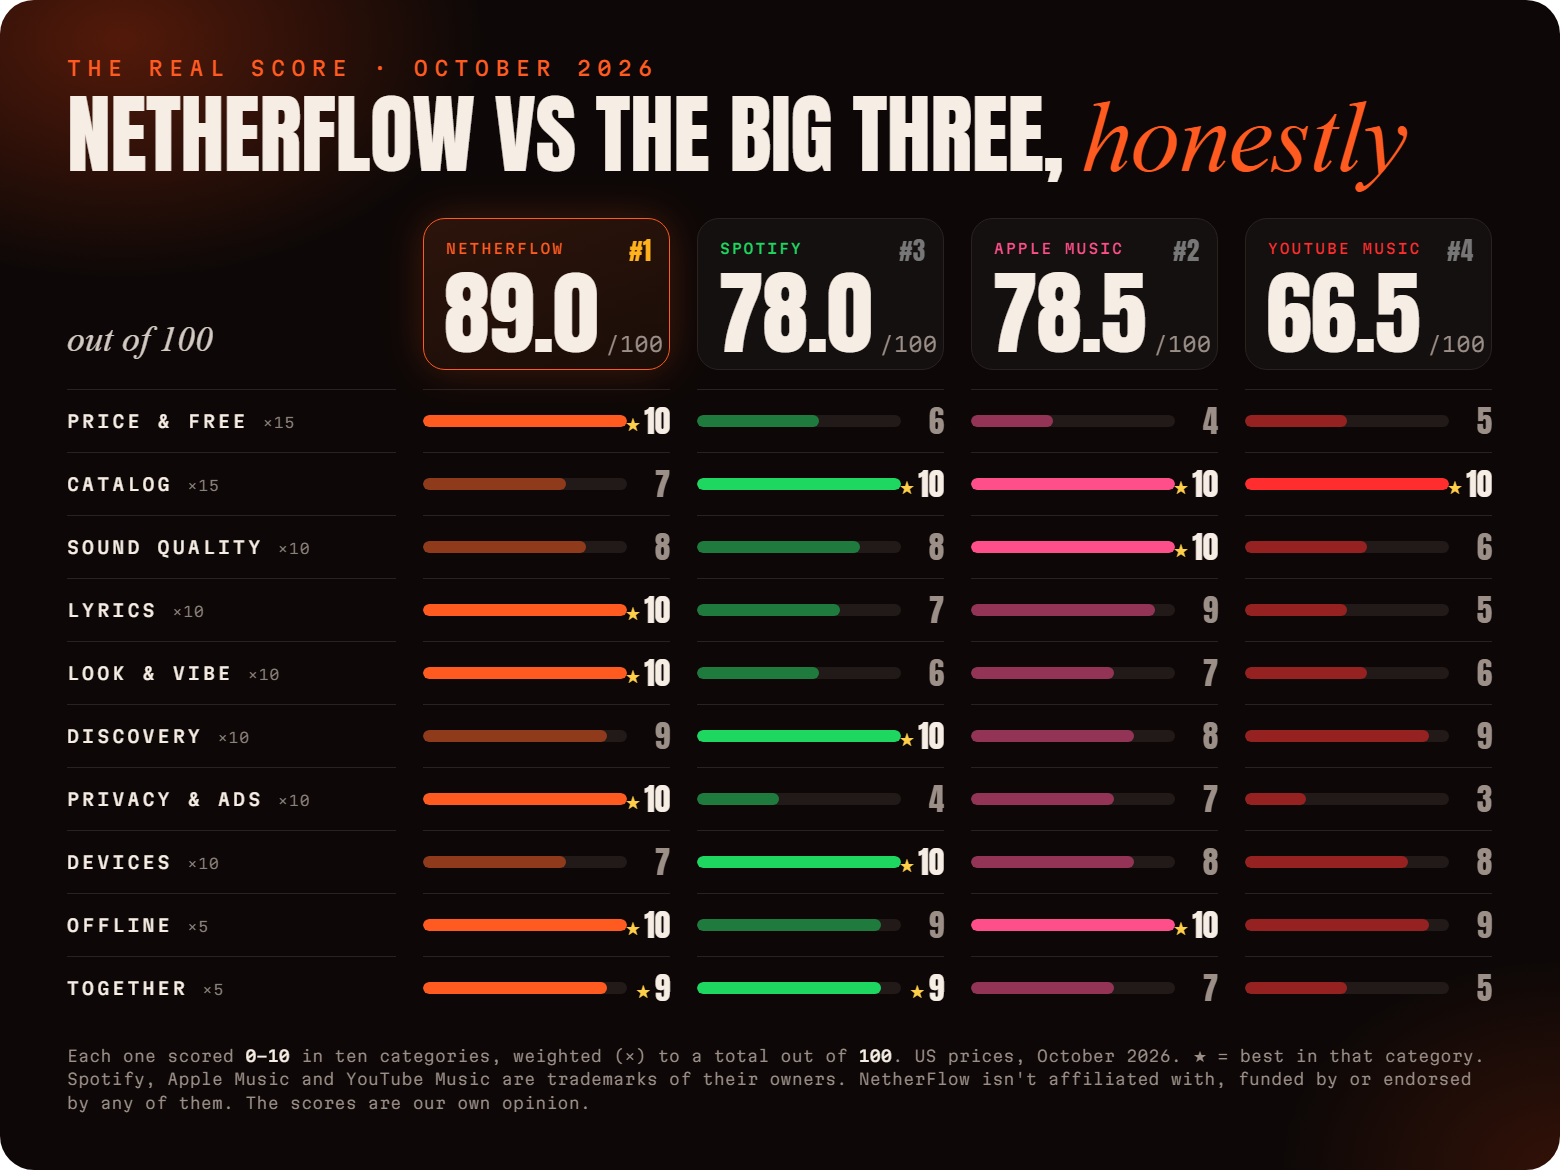
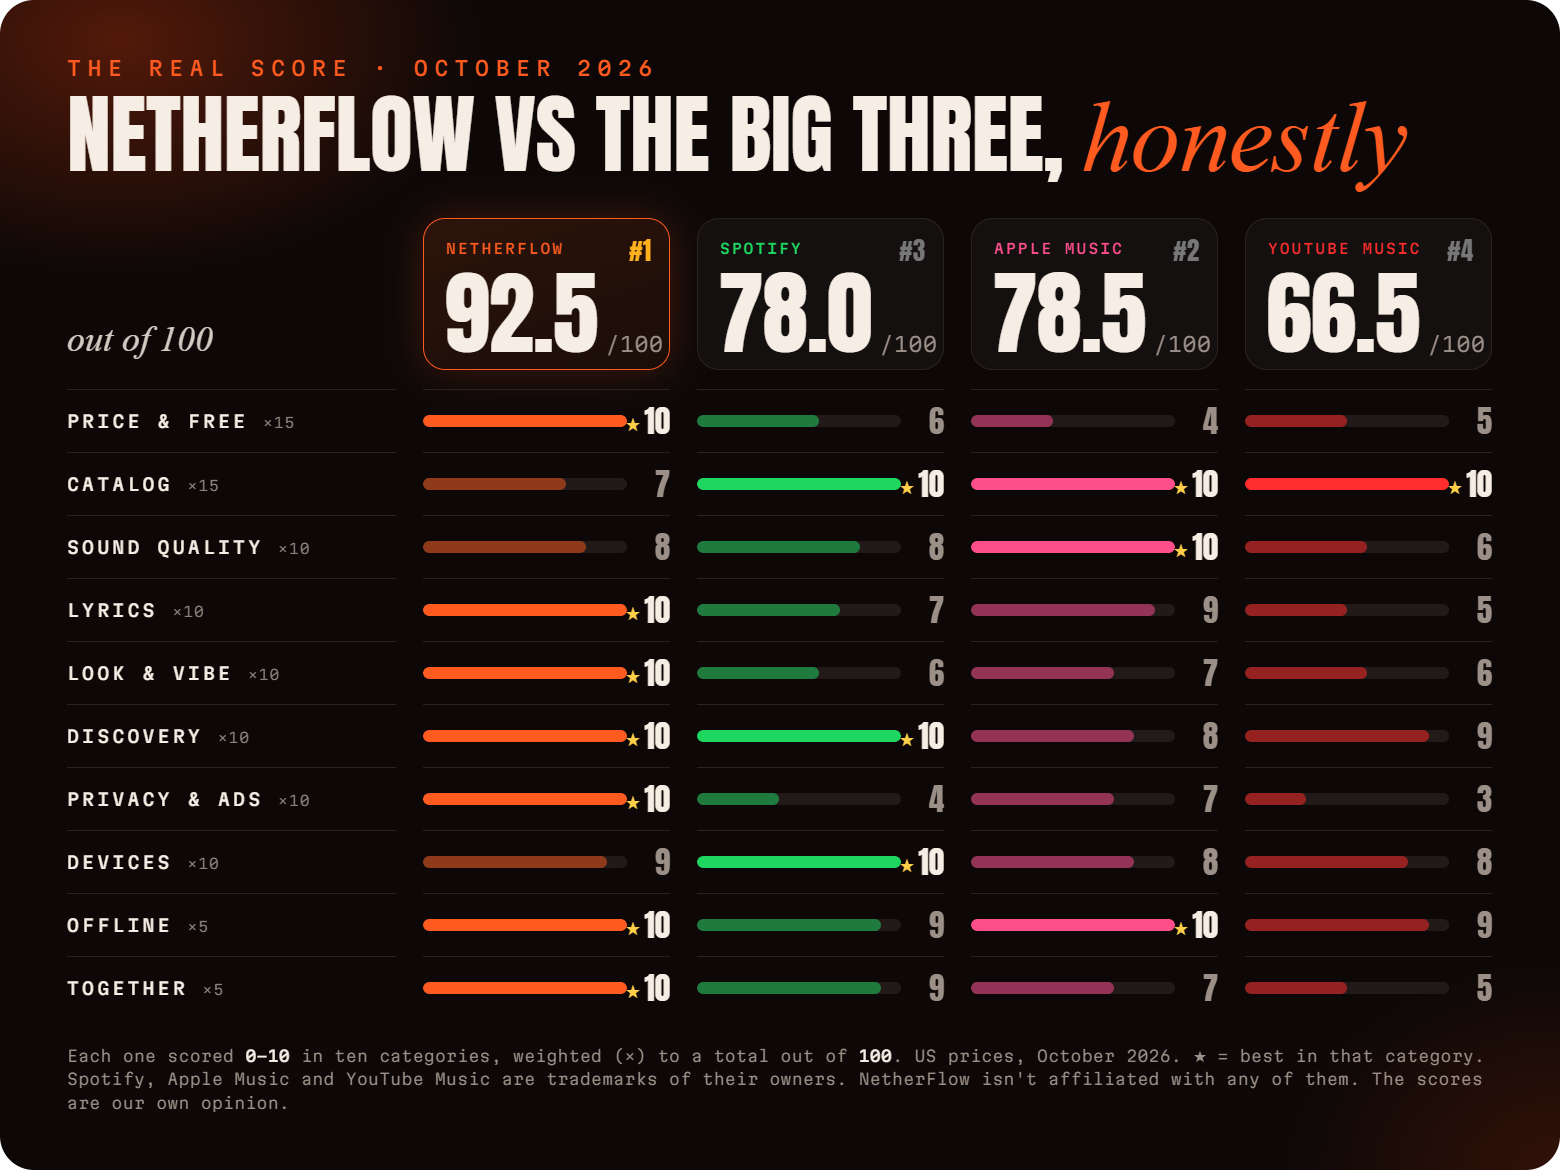
NetherFlow 1.6.0: Play on a TV or speaker, live concerts, Weekly picks and Today's mix, and Listen together for 30
Version 1.6.0 (versionCode 14); TERMS_VERSION 2026-10-19.1 for Legal's 1.6.0 text (f2e2b35); README's What's new,
features and comparison in Legal's wording (the score 92.5: devices 9, discovery 10, together 10); the changelog and
the store's notes.

diff --git a/index.html b/index.html
@@ -8898,7 +8898,7 @@ $('closeAbout').onclick = () => $('about').close();
 // Links inside legal.html open in the real browser (legal.html calls this through window.parent).
 window.openExternal = url => native ? (location.href = url) : window.open(url, '_blank', 'noopener');
 
-const TERMS = 'netherflow.terms', TERMS_VERSION = '2026-10-17.1'; // bump when the terms change: everyone is asked again (and run npm run site:legal for the website's copy)
+const TERMS = 'netherflow.terms', TERMS_VERSION = '2026-10-19.1'; // bump when the terms change: everyone is asked again (and run npm run site:legal for the website's copy)
 if (store.get(TERMS) !== TERMS_VERSION) { $('consent').showModal(); placeWinctl(); }
 // its usual port taken (see main.js): the library and settings are kept under that one, so here all looks new; said so
 if (window.netherflowApp?.portMoved) setTimeout(() => { toast('Something else is using NetherFlow\'s port, so your library and settings aren\'t shown. Close it (or another NetherFlow) and open NetherFlow again.'); clearTimeout(toastTimer); toastTimer = setTimeout(() => $('toast').hidePopover(), 15000); }, 1500);

diff --git a/README.md b/README.md
@@ -44,26 +44,29 @@ need a powerful graphics card anyway), about 18 MB smaller, and it updates to Li
 
 <a id="whats-new"></a>
 
-## What's new in 1.5.1
+## What's new in 1.6.0
 
-- **A new search**, laid out like the big music apps: the top result beside the first four songs, artists and albums in
-  rows, and All, Songs, Artists and Albums at the top. The page is there in under a second
-- **Playlists you can arrange:** find a song as you type, sort by title, artist, newest added or length, drag songs into
-  your own order, and Add songs from the playlist itself
-- **Songs start sooner,** and the artist's own upload is preferred
-- **Rap lyrics in sync:** word-by-word timing that's out of line with the song is lined up again
-- **A volume booster up to 300%** that stays loud without clipping, and **360 sound** that keeps the bass
-- **Play on** (pick the speakers or headphones), **Interface size**, four looks for the **beat on the screen edges**, and
-  **Esc twice** for the home screen
-- **No freeze when picking Redline:** the 3D race runs on its own
+- **Play on a TV or speaker.** It works with Chromecast and other Google Cast devices, and with DLNA TVs and speakers.
+  NetherFlow isn't made, certified or endorsed by Google
+- **NetherFlow also runs on Fire TV: install the APK.** Phones and computers on your Wi-Fi can then play on it
+- **Live concerts from the Internet Archive's Live Music Archive:** free shows taped by fans, in Library ›
+  Live concerts and with the artists you search for
+- **Weekly picks** (new every Monday) and **Today's mix**, made from what you play and like
+- **Listen together with up to 30 people**
+- **Lyrics romanized** in Hindi, Punjabi and India's other scripts, and word by word in them where the song has it
+- **Share to NetherFlow** (Android): a song shared from YouTube or YouTube Music plays that very song
+- **Move the island** (Windows) anywhere on the screen: Settings › Island position, or Ctrl+Alt+I from any app
+- **A notice when an update is out,** and on phones the music keeps playing when Android takes the app's page away
+- **Faster and steadier everywhere:** long lists quicker to draw and steady while songs download, and on phones,
+  jumping ahead past what's loaded just works
 
-1.5.0 brought NetherFlow's own player, FlowStream, the sound tools, Radio, Shuffle, gapless albums, Android Auto and a
-much smaller app: see the [changelog](CHANGELOG.md#150-netherflows-own-player-and-a-much-smaller-app).
+1.5.1 brought the new search, playlists you can arrange and the 300% booster: see the
+[changelog](CHANGELOG.md#151-better-search-playlists-you-can-arrange-and-a-booster-up-to-300).
 
 > [!NOTE]
 > Someone on 1.4.2 or older can't join a Listen together session started on 1.5 or newer, so update both sides. Shared
-> playlists keep working with older versions. Coming from 1.4 or older: the terms and privacy policy changed a little (which country's law
-> applies, a note on flashing light, and the new relay), so you're asked to accept them again.
+> playlists keep working with older versions. The terms and privacy policy changed a little (TVs and speakers, NetherFlow
+> on a TV, live concerts and update notices), so you're asked to accept them again.
 
 The full notes for this release and every earlier one are in the [changelog](CHANGELOG.md).
 
@@ -79,9 +82,11 @@ The full notes for this release and every earlier one are in the [changelog](CHA
 - **Smooth mix**: songs blend into each other like a DJ set, on the beat. Albums play **gapless**, straight from one song
   into the next
 - **Explore**: charts, new releases, trending, moods and genres with their playlists, and **Your mix**, **Discover** and a
-  mix for **the time of day** (morning, afternoon, evening, late night), made from what you play
+  mix for **the time of day** (morning, afternoon, evening, late night), **Weekly picks** (new every Monday) and
+  **Today's mix**, made from what you play
 - **Follow artists**: their new albums and singles show up first in Explore, and you hear when they're out
 - **Podcasts and audiobooks**: follow shows, pick up where you left off, any speed from 0.8× to 2×
+- **Live concerts from the Internet Archive's Live Music Archive**: free shows taped by fans
 - **Equalizer** with presets, a volume booster, **headphone correction** for 6,000+ headphones (AutoEQ), and every song
   at its **original loudness**
 - **Sound tools**: 360 sound, crossfeed for headphones, clarity, loudness at low volume and a night mode, and a line
@@ -114,7 +119,7 @@ The full notes for this release and every earlier one are in the [changelog](CHA
 
 ### With your people
 
-- **Listen together**: up to 10 people hear the same song at the same moment, each on their own phone or PC. Anyone can
+- **Listen together**: up to 30 people hear the same song at the same moment, each on their own phone or PC. Anyone can
   add songs, skip and react. End-to-end encrypted, no account
 - **Share playlists with a QR code**: tap Share on any playlist and a friend points their phone camera at it, or send
   the link and they paste it in NetherFlow's search. The songs ride inside the link itself; nothing is uploaded
@@ -126,15 +131,18 @@ The full notes for this release and every earlier one are in the [changelog](CHA
 
 ### On every screen
 
+- **Play on a TV or speaker.** It works with Chromecast and other Google Cast devices, and with DLNA TVs and speakers.
+  NetherFlow isn't made, certified or endorsed by Google
 - **Windows**: a **now-playing island** at the top of the screen, over every app. Click it for the cover, timeline,
-  volume and controls
+  volume and controls, and move it anywhere (Settings › Island position, or Ctrl+Alt+I)
 - **Linux**: the same app as a .deb or an AppImage, with your song in your desktop's media controls
 - **Android**: a home-screen widget, lyrics on the lock screen (and in the notification and on your car's display), and
   liked songs saving themselves for offline on Wi-Fi
 - **Android Auto**: your liked songs, recently played and playlists on the car's screen, and voice search. NetherFlow
   plays from your phone, so open it there first. Android Auto shows apps from outside Google Play once its *Unknown
   sources* developer setting is on
-- **Android TV and Google TV**: on the TV's home screen, and everything works with the remote
+- **Android TV and Google TV**: on the TV's home screen, and everything works with the remote. NetherFlow also runs on
+  Fire TV: install the APK. Phones and computers on your Wi-Fi can then play on it
 - **Updates inside the app**: the Windows installer downloads only what changed, and so does the Linux AppImage.
   NetherFlow's own Android app does the same, signed and checked first (a store's build is updated by the store). The
   portable app and the .deb don't update themselves
@@ -192,18 +200,17 @@ All four apps scored on the ten things that matter most to listeners. NetherFlow
 every category.
 
 <p align="center">
-  <img src="docs/media/score.png" width="100%" alt="The score, out of 100: NetherFlow 89.0, Apple Music 78.5, Spotify 78.0, YouTube Music 66.5">
+  <img src="docs/media/score.png" width="100%" alt="The score, out of 100: NetherFlow 92.5, Apple Music 78.5, Spotify 78.0, YouTube Music 66.5">
 </p>
 
 | Rank | App | Score | Best at |
 |:-:|:--|:-:|:--|
-| 1 | **NetherFlow** | **89.0** | price, lyrics, the look, privacy, offline, together |
+| 1 | **NetherFlow** | **92.5** | price, lyrics, the look, privacy, offline, together, discovery |
 | 2 | **Apple Music** | **78.5** | sound quality, offline, catalog |
-| 3 | **Spotify** | **78.0** | discovery, devices, together, catalog |
+| 3 | **Spotify** | **78.0** | discovery, devices, catalog |
 | 4 | **YouTube Music** | **66.5** | catalog (covers, live versions, remixes) |
 
-NetherFlow is **first, or tied for first, in six categories**. The others beat it on catalog, sound, discovery and
-devices.
+NetherFlow is **first, or tied for first, in seven categories**. The others beat it on catalog, sound and devices.
 
 <details>
 <summary><b>The full breakdown, category by category</b></summary>
@@ -227,6 +234,7 @@ devices.
 | Songs | everything on YouTube, found through Apple's catalog | 100M+ | 100M+ | 100M+, plus YouTube's covers, live versions and remixes |
 | Officially licensed | ✗ it plays the songs from YouTube | ✓ | ✓ | ✓ |
 | Podcasts | ✓ podcasts from Apple's directory, saved for offline too | ✓ | ~ in a separate app | ✓ |
+| Live concerts | ✓ live concerts from the Internet Archive's Live Music Archive, taped by fans | ✓ official live albums | ✓ official live albums | ✓ official live albums, and YouTube's live versions |
 | Audiobooks | ~ free classics only (LibriVox, public domain in the US) | ✓ the bestsellers | ~ in Apple Books | ✗ |
 | Can break when YouTube changes something | ~ yes, until an update fixes it | ✓ no | ✓ no | ✓ no |
 | **Score** | 7 | **10** | **10** | **10** |
@@ -263,10 +271,10 @@ devices.
 
 | | NetherFlow | Spotify | Apple Music | YouTube Music |
 |:--|:--|:--|:--|:--|
-| Recommendations | ✓ Your mix, Discover, Radio from any song or artist, a mix for the time of day, Mix with a friend, and Autoplay that learns from what you skip and like | ✓ Discover Weekly, AI DJ, daylist | ✓ stations, personal mixes | ✓ Supermix, strong recommendations |
+| Recommendations | ✓ Your mix, Discover, Weekly picks, Today's mix, Radio from any song or artist, a mix for the time of day, Mix with a friend, and Autoplay that learns from what you skip and like | ✓ Discover Weekly, AI DJ, daylist | ✓ stations, personal mixes | ✓ Supermix, strong recommendations |
 | Curated playlists, charts, new releases | ✓ YouTube Music's charts, moods & genres, and new releases from the artists you follow, with an alert when they're out | ✓ | ✓ | ✓ |
 | Your year in music | ✓ your stats, any time | ✓ Wrapped | ✓ Replay | ✓ Recap |
-| **Score** | 9 | **10** | 8 | 9 |
+| **Score** | **10** | **10** | 8 | 9 |
 
 ### Privacy and ads
 
@@ -282,19 +290,19 @@ devices.
 |:--|:--|:--|:--|:--|
 | Phone | Android | Android, iPhone | iPhone, Android | Android, iPhone |
 | Computer | Windows, Linux | Windows, Mac, Linux, web | Mac, Windows, web | ~ web only |
-| TV, speakers, car, watch | ~ Android TV and Google TV, Android Auto (NetherFlow has to be open on the phone, and Android Auto lists apps from outside the Play Store only with its Unknown sources developer setting on), and lyrics on your car's display (Android) | ✓ almost everything | ✓ Apple's devices, and plenty more | ✓ many |
-| **Score** | 7 | **10** | 8 | 8 |
+| TV, speakers, car, watch | ✓ plays on Chromecast and other Google Cast devices, and on DLNA TVs and speakers; Android TV and Google TV, and NetherFlow also runs on Fire TV (install the APK); Android Auto (NetherFlow has to be open on the phone, and Android Auto lists apps from outside the Play Store only with its Unknown sources developer setting on), and lyrics on your car's display (Android) | ✓ almost everything | ✓ Apple's devices, and plenty more | ✓ many |
+| **Score** | 9 | **10** | 8 | 8 |
 
 ### Offline and together
 
 | | NetherFlow | Spotify | Apple Music | YouTube Music |
 |:--|:--|:--|:--|:--|
 | Download songs | ✓ free, whole playlists at once (but YouTube's terms don't allow it) | ✓ Premium, 10,000 a device | ✓ up to 100,000 in your library | ✓ Premium |
-| Listen together, live | ✓ up to 10 people, any phone or PC, no account, end-to-end encrypted | ✓ Jam | ✓ SharePlay (Apple devices) | ✗ not built in |
+| Listen together, live | ✓ up to 30 people, any phone or PC, no account, end-to-end encrypted | ✓ Jam | ✓ SharePlay (Apple devices) | ✗ not built in |
 | Share a playlist | ✓ a QR code or a link (the songs show up even without the app) | ✓ a link, or a Spotify Code to scan | ✓ a link | ✓ a link |
 | Playlists you edit together | ✓ anyone with the link, live, end-to-end encrypted, no account | ✓ | ✓ | ✓ |
 | **Offline score** | **10** | 9 | **10** | 9 |
-| **Together score** | **9** | **9** | 7 | 5 |
+| **Together score** | **10** | 9 | 7 | 5 |
 
 </details>
 
@@ -304,8 +312,8 @@ devices.
   features can break until an update fixes them
 - **The sound tops out around 160 kbps.** On good headphones, Apple Music's and Spotify's lossless is clearly better
 - **No iPhone and no Mac yet.** Windows, Linux, Android and Android TV
-- **Audiobooks are free classics only** (LibriVox's), not the bestsellers Spotify and Apple have. Finding new music is
-  good, but Spotify's is still better
+- **Audiobooks are free classics only** (LibriVox's), not the bestsellers Spotify and Apple have. Spotify's
+  recommendations still learn from far more listeners
 - **Artists earn less from your plays** than on the paid apps, since no YouTube ads play. If you love an artist, support
   them directly: buy the merch, go to the show, or stream them on a paid app too
 
@@ -339,6 +347,8 @@ NetherFlow doesn't host any music, videos or lyrics. It finds them on other serv
 | Explore | YouTube Music's charts, new releases, moods and genres; your mixes from its radio for the songs you play most |
 | Podcasts | Apple's podcast directory and charts; the episodes from each show's own feed and host |
 | Audiobooks | [LibriVox](https://librivox.org)'s recordings (public domain in the US), from the [Internet Archive](https://archive.org) |
+| Live concerts | The Internet Archive's [Live Music Archive](https://archive.org/details/etree): shows taped by fans |
+| Play on a TV or speaker | Google Cast and DLNA, on your own Wi-Fi: the TV or speaker fetches the song itself |
 | Headphone correction | [AutoEQ](https://github.com/jaakkopasanen/AutoEq)'s published results (MIT), fetched when you pick your headphones |
 | Playlists you make together | NetherFlow's own relay on Cloudflare (public MQTT relays as a backup), end-to-end encrypted with a key from the playlist link |
 | Saving for offline | FlowStream saves the audio from YouTube, as YouTube serves it (its best, usually Opus); podcast episodes and audiobook chapters come as their host serves them |

diff --git a/CHANGELOG.md b/CHANGELOG.md
@@ -2,6 +2,33 @@
 
 What changed in each NetherFlow release. The builds are on the [releases page](https://github.com/volodya-rua/NetherFlow/releases).
 
+## 1.6.0: Play on a TV or speaker, live concerts, and Listen together for 30
+
+- **Play on a TV or speaker.** It works with Chromecast and other Google Cast devices, and with DLNA TVs and speakers.
+  NetherFlow isn't made, certified or endorsed by Google. The TV or speaker fetches the song itself; play, pause,
+  moving through the song and the volume work from NetherFlow, on computers and phones
+- **NetherFlow also runs on Fire TV: install the APK.** Phones and computers on your Wi-Fi can then play on it, as on
+  any Android TV or Google TV. Settings › "Let phones and computers on this Wi-Fi play here" turns it off
+- **Live concerts from the Internet Archive's Live Music Archive:** free shows taped by fans, in Library › Live concerts
+  and with the artists you search for, each with its own page there
+- **Weekly picks** (songs new to you, like the ones you love, new every Monday) and **Today's mix**
+- **Listen together** with up to 30 people
+- **Romanized lyrics** in Hindi, Punjabi and India's other scripts, the line coming next too, and word-by-word lyrics
+  in those scripts
+- **Share to NetherFlow** (Android): a song shared from YouTube or YouTube Music plays that very song (a music video's
+  song as its album recording)
+- **The island** (Windows) can be moved: Settings › Island position, or Ctrl+Alt+I from any app
+- **Update notices:** a system notification when a newer NetherFlow is out
+- **Phones:** the music keeps playing when Android takes the app's page away, and a song that stuck picks up again;
+  jumping ahead past what's loaded now works
+- **Steadier and lighter:** a long list stays where it was while songs download; rows are built twice as fast; songs scrolled
+  past aren't looked up for lyrics; the island rests while paused; Smooth mix checks once a second until a song's end
+- **Fixes:** a song with no timed lyrics shows its cover; no "1.8B views" as a shared video's album; a junk lyrics entry
+  no longer cuts word-by-word lyrics to one line; headphone correction at 0% is kept after a restart
+- The built-in server on computers turns away requests from web pages in a browser
+- The terms and privacy policy changed a little (TVs and speakers, NetherFlow on a TV, live concerts and update notices),
+  so you're asked to accept them again
+
 ## 1.5.1: Better search, playlists you can arrange, and a booster up to 300%
 
 - **Search** works like the big music apps: All, Songs, Artists and Albums at the top, the top result beside the first
